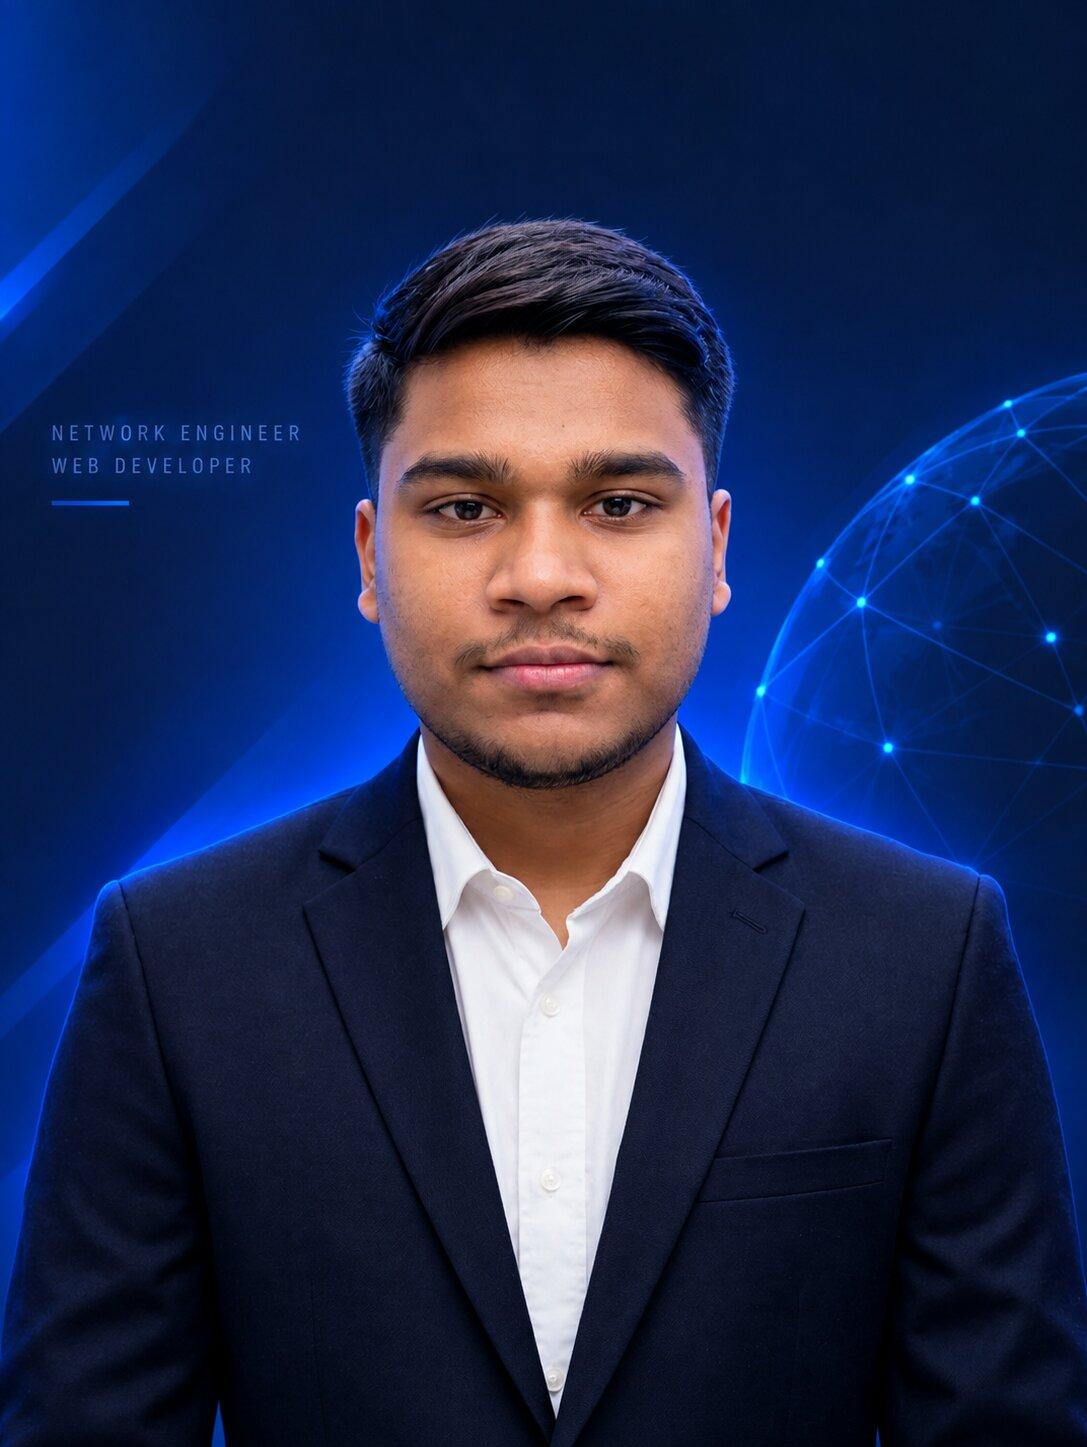
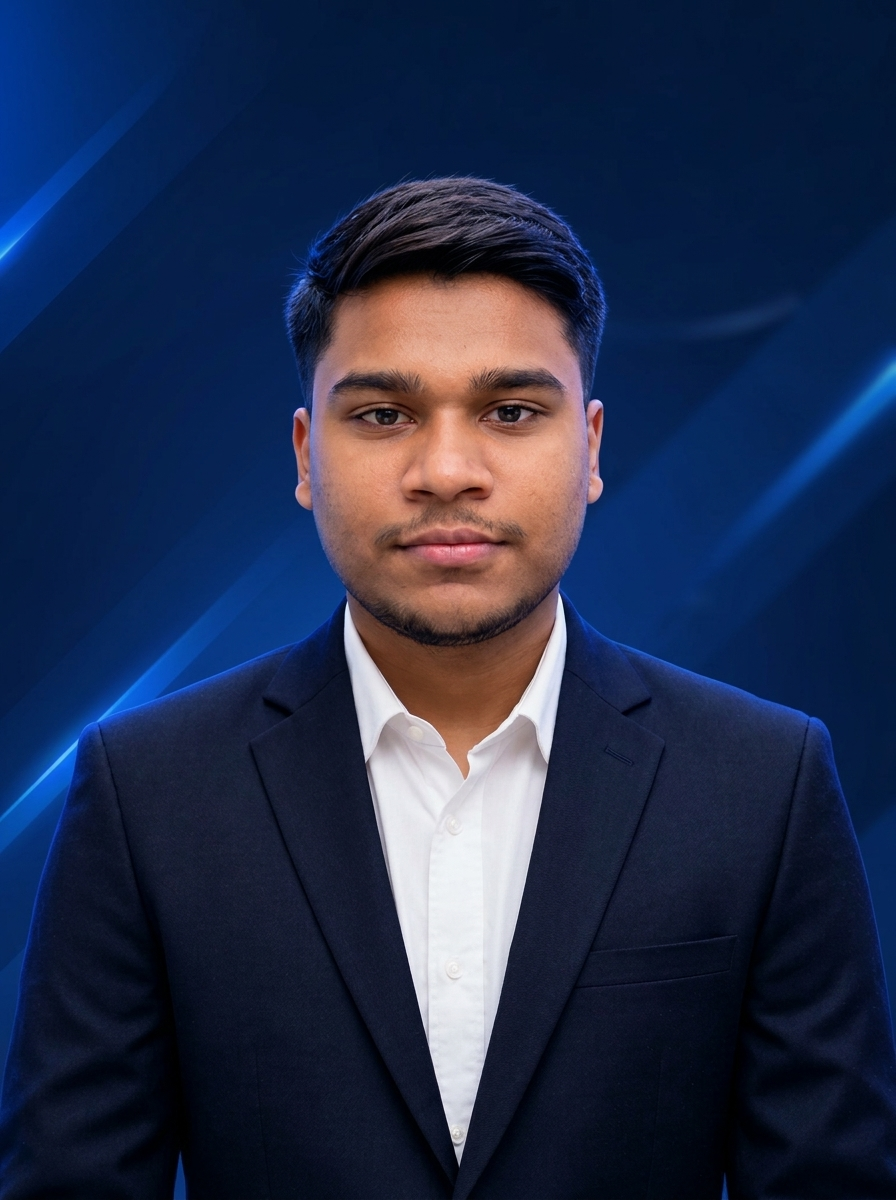
Updated hero buttons styling and portfolio layout

diff --git a/index.html b/index.html
@@ -589,5 +589,33 @@
     <!-- JS Scripts -->
     <script src="https://unpkg.com/aos@2.3.1/dist/aos.js"></script>
     <script src="script.js"></script>
+   <!-- Light & Dark Mode Auto Color Footer -->
+<footer class="portfolio-footer py-10 border-t transition-all duration-300">
+    <div class="max-w-7xl mx-auto px-4 sm:px-6 lg:px-8">
+        <div class="flex flex-col items-center text-center">
+            
+            <!-- Logo / Brand Name -->
+            <a href="#" class="footer-brand text-2xl md:text-3xl font-extrabold tracking-wider mb-5 transition-colors">
+                Amdadul<span class="text-blue-500">.dev</span>
+            </a>
+
+            <!-- Navigation Links -->
+            <nav class="flex flex-wrap justify-center gap-5 md:gap-7 mb-6 text-xs md:text-sm tracking-widest uppercase font-semibold">
+                <a href="#about" class="footer-link transition-colors">ABOUT</a>
+                <a href="#skills" class="footer-link transition-colors">SKILLS</a>
+                <a href="#projects" class="footer-link transition-colors">PROJECTS</a>
+                <a href="#education" class="footer-link transition-colors">EDUCATION & CERTIFICATIONS</a>
+                <a href="#research" class="footer-link transition-colors">RESEARCH</a>
+                <a href="#contact" class="footer-link transition-colors">CONTACT</a>
+            </nav>
+
+            <!-- Copyright Text -->
+            <div class="footer-text text-xs md:text-sm font-normal opacity-80">
+                © <span id="current-year-footer">2026</span> Md. Amdadul Islam · Designed & Built with <i class="fa-solid fa-heart text-red-500 mx-0.5"></i> · All rights reserved.
+            </div>
+            
+        </div>
+    </div>
+</footer>
 </body>
 </html>

diff --git a/style.css b/style.css
@@ -398,3 +398,56 @@ a, button {
     -webkit-tap-highlight-color: transparent;
     touch-action: manipulation;
 }
+:root {
+    --bg-main: #090d16;
+    --text-title: #ffffff;
+    --text-subtitle: #cbd5e1;
+    --text-muted: #94a3b8;
+    --text-theme: #f1f5f9;
+    --glass-bg: rgba(15, 23, 42, 0.75);
+    --glass-card: rgba(255, 255, 255, 0.03);
+    --glass-border: rgba(255, 255, 255, 0.08);
+    --input-bg: rgba(15, 23, 42, 0.8);
+    --input-border: rgba(51, 65, 85, 0.6);
+    --input-text: #ffffff;
+    --orb-opacity: 1;
+}
+
+body.light-theme {
+    --bg-main: #f8fafc;
+    --text-title: #0f172a;
+    --text-subtitle: #334155;
+    --text-muted: #475569;
+    --text-theme: #0f172a;
+    --glass-bg: rgba(255, 255, 255, 0.85);
+    --glass-card: #ffffff;
+    --glass-border: #e2e8f0;
+    --input-bg: #ffffff;
+    --input-border: #cbd5e1;
+    --input-text: #0f172a;
+    --orb-opacity: 0.3;
+}
+
+/* Fixed Footer Color Dynamic Variables */
+.portfolio-footer {
+    background-color: var(--bg-main) !important;
+    border-color: var(--glass-border) !important;
+    color: var(--text-theme) !important;
+    transition: background-color 0.4s ease, color 0.4s ease, border-color 0.4s ease;
+}
+
+.footer-brand {
+    color: var(--text-title) !important;
+}
+
+.footer-link {
+    color: var(--text-muted) !important;
+}
+
+.footer-link:hover {
+    color: #3b82f6 !important;
+}
+
+.footer-text {
+    color: var(--text-muted) !important;
+}

diff --git a/script.js b/script.js
@@ -403,3 +403,29 @@ function toggleTheme() {
 
 if (themeToggleBtn) themeToggleBtn.addEventListener('click', toggleTheme);
 if (themeToggleMobileBtn) themeToggleMobileBtn.addEventListener('click', toggleTheme);
+// Footer Dynamic Year
+const footerYearEl = document.getElementById('current-year-footer');
+if (footerYearEl) {
+    footerYearEl.textContent = new Date().getFullYear();
+}
+
+// Back to Top Button Logic
+const backToTopBtn = document.getElementById('back-to-top-btn');
+if (backToTopBtn) {
+    window.addEventListener('scroll', () => {
+        if (window.scrollY > 300) {
+            backToTopBtn.classList.remove('opacity-0', 'pointer-events-none');
+            backToTopBtn.classList.add('opacity-100');
+        } else {
+            backToTopBtn.classList.add('opacity-0', 'pointer-events-none');
+            backToTopBtn.classList.remove('opacity-100');
+        }
+    });
+
+    backToTopBtn.addEventListener('click', () => {
+        window.scrollTo({
+            top: 0,
+            behavior: 'smooth'
+        });
+    });
+}
